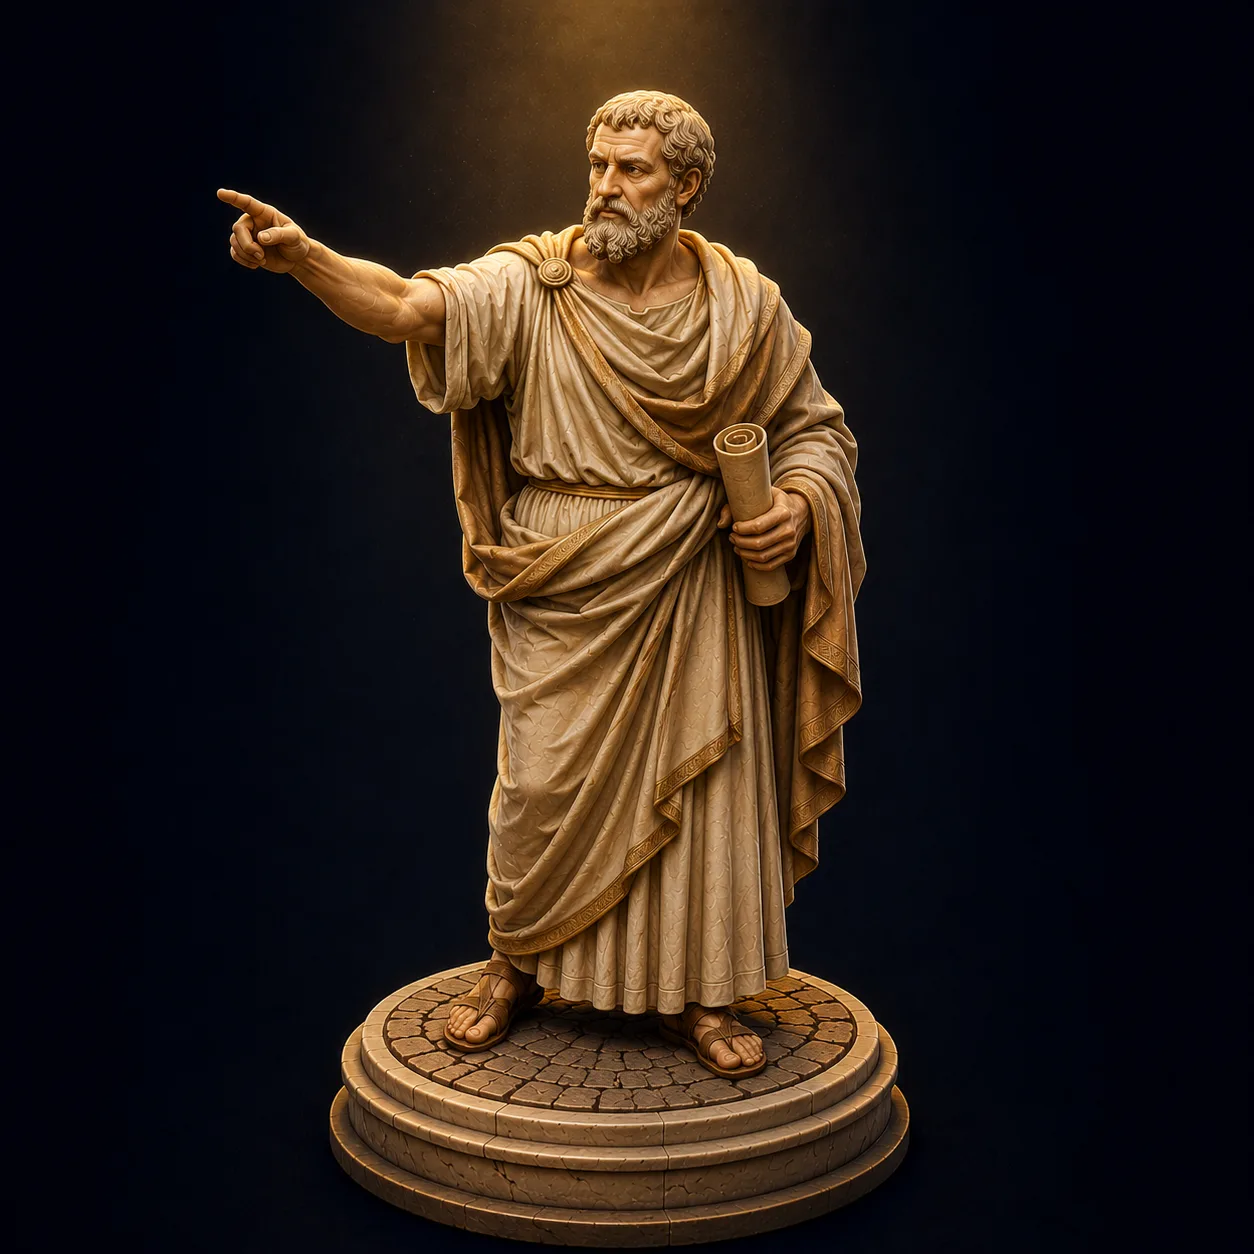
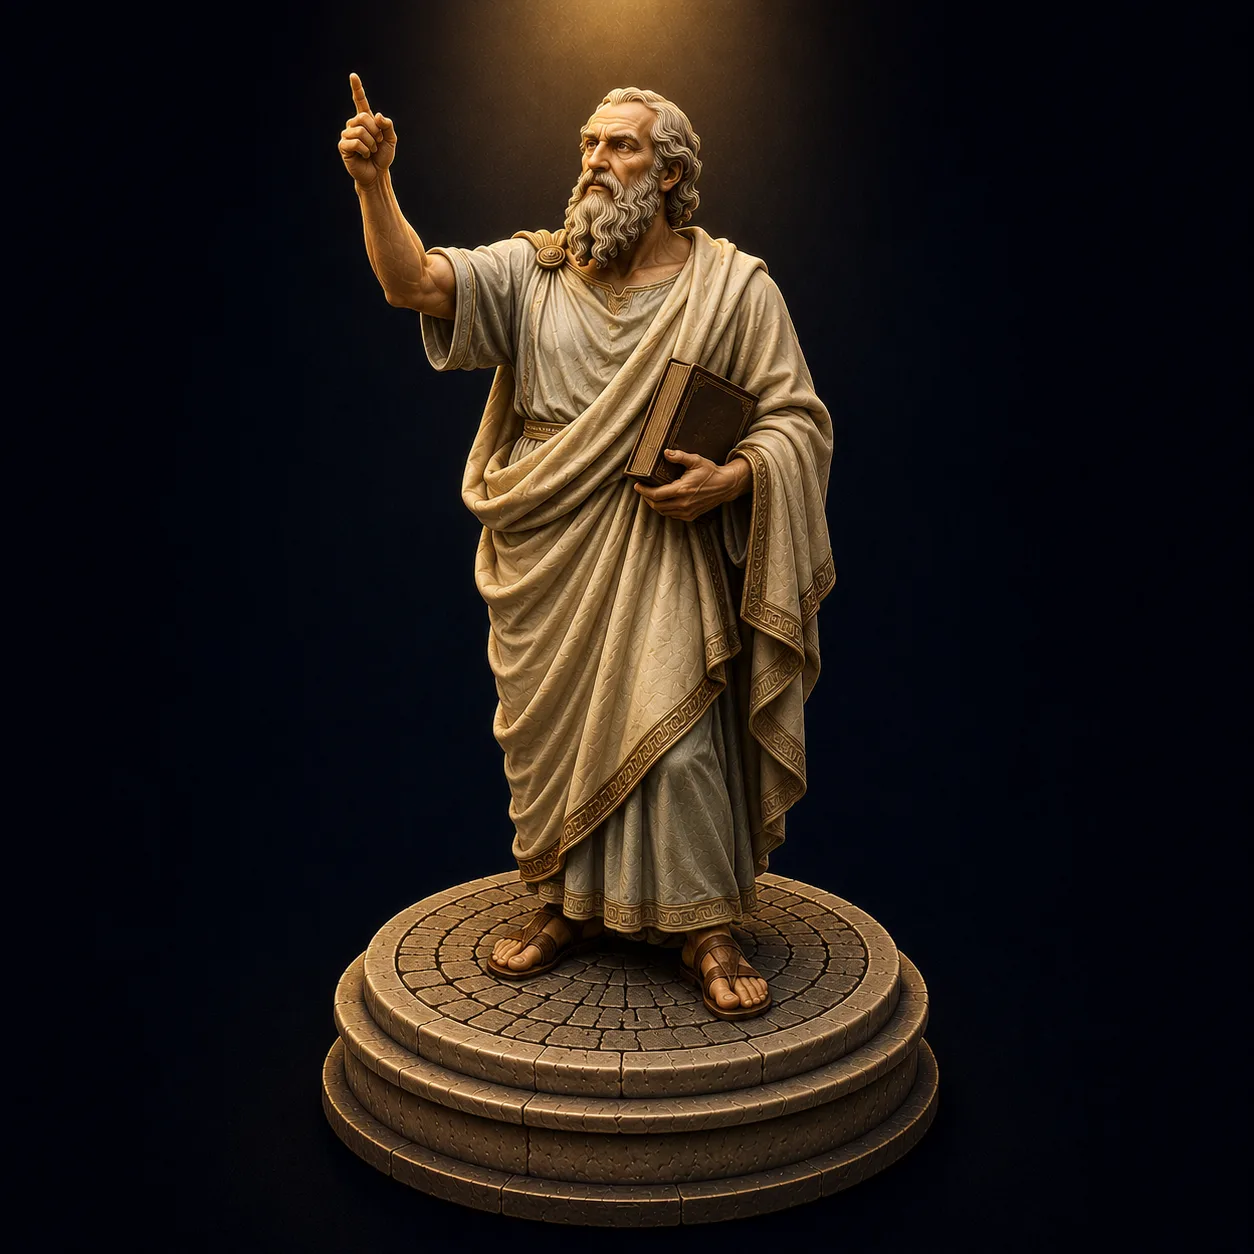
feat: adicionar figuras de Zenão (nova), Marco Aurélio e Simone de Beauvoir (#31)
https://claude.ai/code/session_011QduBMDeUJ6AoFUno8fRZL

Changed region(s): [[0.1866, 0.0, 0.7464, 0.9952]]

diff --git a/src/data/philosophers.ts b/src/data/philosophers.ts
@@ -387,6 +387,7 @@ const corePhilosophers: Philosopher[] = [
       ],
     },
     bust: { marble: '#ece5d8', pedestal: '#a35e3b', headWidth: 0.9, beard: 0.7, hair: 0.75 , look: { skin: '#e0ab7c', hair: '#54422e', cloth: '#6e3f7d', clothAccent: '#d9ad4f', hairstyle: 'curly', beard: 'curly', mustache: 'normal', laurel: true } },
+    figureImage: '/figures/marcus-aurelius.webp',
   },
   {
     slug: 'descartes',
@@ -696,6 +697,7 @@ const corePhilosophers: Philosopher[] = [
       ],
     },
     bust: { marble: '#efe9dd', pedestal: '#9a4a5a', headWidth: 0.78, beard: 0, hair: 0.95 , look: { skin: '#f2c9a8', hair: '#4a3527', cloth: '#9a4a5a', clothAccent: '#d9ad4f', hairstyle: 'updo', beard: 'none', mustache: 'none', headband: true } },
+    figureImage: '/figures/simone-de-beauvoir.webp',
   },
 ];
 
